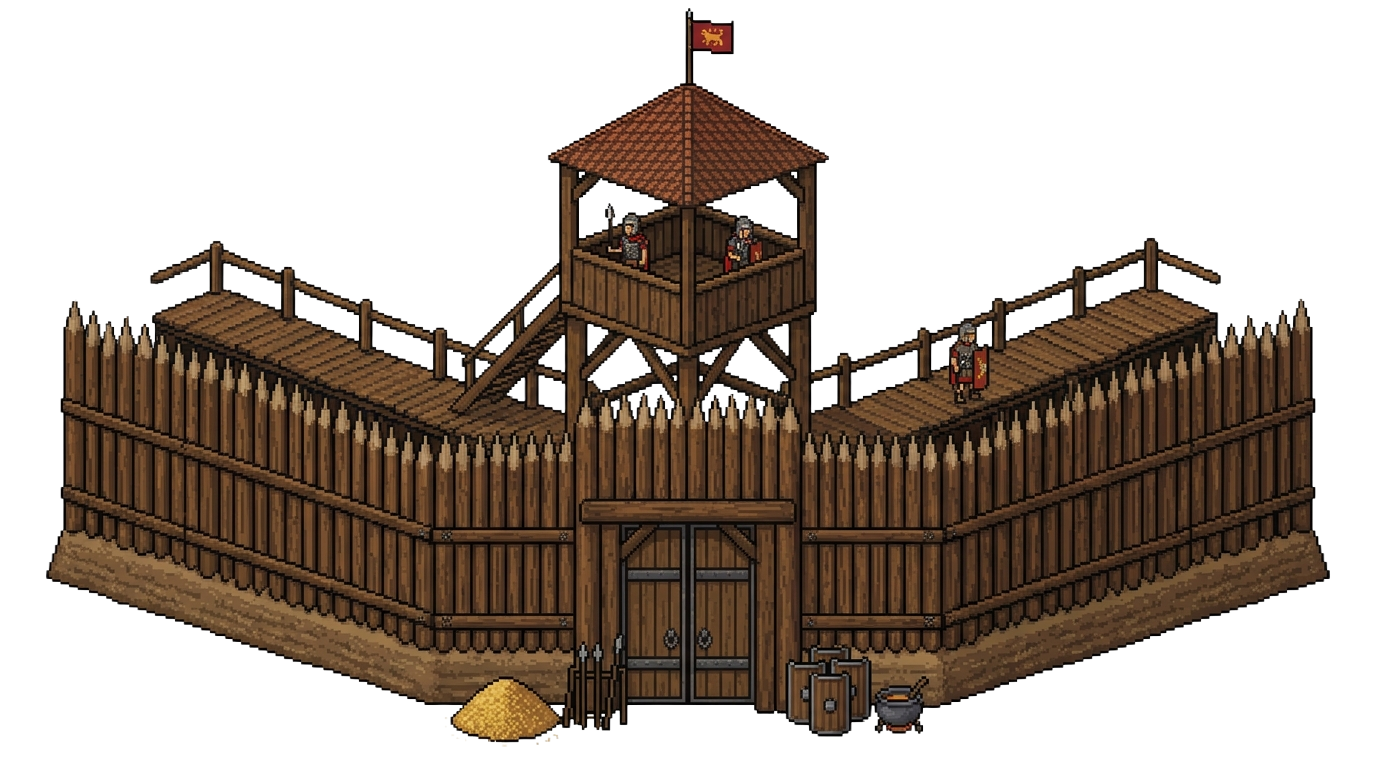
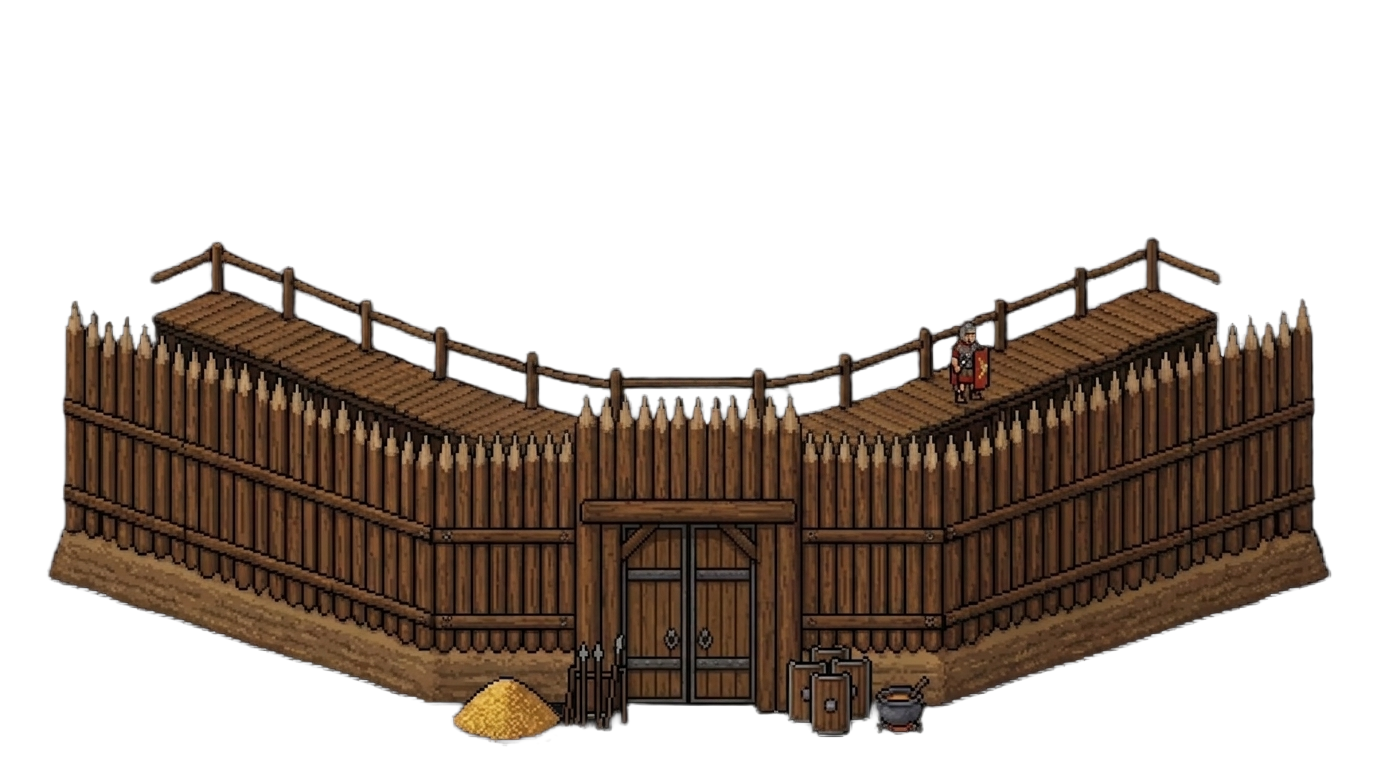
Footer-conventie, canonieke Firebase-rules en licentie
Consistente footer ("[Naam] · © Gerben de Jong · 2026") toegepast op alle
apps en portalen (©-teken toegevoegd waar het ontbrak, footer toegevoegd
waar hij helemaal ontbrak). CLAUDE.md vastgelegd met de exacte conventie én
met certamen/database.rules.json als canonieke bron voor de Firebase
Realtime Database-regels (voorheen alleen als los fragment gedocumenteerd).
Verder: LICENSE toegevoegd (alle rechten voorbehouden) en Palissade.png
opnieuw geëxporteerd (kleinere bestandsgrootte).

diff --git a/certamen/index.html b/certamen/index.html
@@ -25,30 +25,10 @@
   5. Klaar. Zonder config werkt de OEFENMODUS (met computer-spelers) gewoon,
      zodat je de spellen meteen kunt uitproberen.
 
-  Aanbevolen databaseregels (Realtime Database -> Regels):
-  {
-    “rules”: {
-      “rooms”: {
-        “$code”: { “.read”: true, “.write”: true }
-      },
-      “identities”: {
-        “.read”: “auth != null”,
-        “$klascode”: {
-          “$lid”: { “.read”: true, “.write”: true }
-        }
-      },
-      “klascodes”: {
-        “.read”: true,
-        “.write”: “auth != null”
-      },
-      “teachers”: {
-        “$uid”: { “.read”: “auth != null && auth.uid === $uid”, “.write”: “auth != null && auth.uid === $uid” }
-      }
-    }
-  }
-  (identities/$lid: iedereen mag schrijven = account aanmaken/updaten.
-   identities root lezen vereist auth = alleen docentenportaal.
-   klascodes lezen = iedereen (validatie bij registratie); schrijven = alleen auth.)
+  Databaseregels (Realtime Database -> Regels): zie certamen/database.rules.json
+  in dit repo voor de actuele, canonieke versie (incl. bescherming van het
+  admin-veld en validatie). Dat bestand moet altijd gelijk zijn aan wat er
+  live in de Firebase Console staat — zie CLAUDE.md, sectie "Firebase-rules".
   ============================================================================
 -->
 <script>

diff --git a/grieks/structura/index.html b/grieks/structura/index.html
@@ -305,7 +305,7 @@
     <p>Ontleed Griekse zinnen stap voor stap<br>via het R·U·A·M·E-systeem.</p>
   </div>
   <div class="levels-grid" id="levelsGrid"></div>
-  <footer>Grieks Ontleedcoach · Gerben de Jong · 2026</footer>
+  <footer>Grieks Ontleedcoach · © Gerben de Jong · 2026</footer>
 </div>
 
 <!-- SCREEN 2: EXERCISE -->
@@ -359,7 +359,7 @@
   <div id="levelResultList"></div>
   <button class="btn-primary gold" onclick="goToLevelSelect()">Terug naar niveaus</button>
   <button class="btn-primary" onclick="retryLevel()" style="margin-top:10px;">Opnieuw proberen</button>
-  <footer style="padding-top:24px;">Grieks Ontleedcoach · Gerben de Jong · 2026</footer>
+  <footer style="padding-top:24px;">Grieks Ontleedcoach · © Gerben de Jong · 2026</footer>
 </div>
 
 <script>

diff --git a/latijn/ludus/index.html b/latijn/ludus/index.html
@@ -914,7 +914,8 @@ RENDER.home=function(){
       <div class="note" style="font-size:12px;margin-top:2px">Speluitleg, denarii, ranglijst, woordenlijsten importeren&hellip;</div>
     </div>
     <svg viewBox="0 0 24 24" width="20" height="20" fill="none" stroke="var(--gold-dim)" stroke-width="2"><path d="M9 6l6 6-6 6"/></svg>
-  </button>`;
+  </button>
+  <div style="text-align:center;color:var(--muted);font-size:12px;margin-top:18px;letter-spacing:.1em">Ludus Latinus · © Gerben de Jong · 2026</div>`;
 };
 
 /* ---- ACHIEVEMENTS ---- */

diff --git a/frequentie/index.html b/frequentie/index.html
@@ -283,6 +283,8 @@ tbody td{padding:8px 12px;vertical-align:middle}
   </div>
 </div>
 
+<footer style="text-align:center;color:var(--muted);font-size:12px;margin:18px 0">Frequentie Woordenlijst · © Gerben de Jong · 2026</footer>
+
 <script>
 "use strict";
 // ════════ STATE ════════

diff --git a/grieks/agora/index.html b/grieks/agora/index.html
@@ -1786,7 +1786,7 @@ RENDER.home=function(){
   '<button class="panel" onclick="go(\'help\')" style="width:100%;text-align:left;display:flex;align-items:center;gap:14px;margin-top:14px;cursor:pointer">'+
   '<svg width="28" height="28" viewBox="0 0 24 24" fill="none" stroke="var(--gold)" stroke-width="2"><circle cx="12" cy="12" r="10"/><path d="M9.09 9a3 3 0 015.83 1c0 2-3 3-3 3M12 17h.01"/></svg>'+
   '<div><div style="font-size:16px;color:var(--cream)">Handleiding</div><div style="font-size:13px;color:var(--muted)">Hoe gebruik ik Agora Graeca?</div></div></button>'+
-  '<div style="text-align:center;color:var(--muted);font-size:12px;margin-top:18px;letter-spacing:.1em">Hulp bij Klassieke Talen · Gerben de Jong · 2026</div>';
+  '<div style="text-align:center;color:var(--muted);font-size:12px;margin-top:18px;letter-spacing:.1em">Hulp bij Klassieke Talen · © Gerben de Jong · 2026</div>';
 };
 
 RENDER.achievements=function(){

diff --git a/grieks/casus/index.html b/grieks/casus/index.html
@@ -808,7 +808,7 @@ RENDER.home = function(){
     Gebaseerd op de GJOU Grieks frequentielijst. Alle paradigma's zijn Attisch Grieks.
   </div>
   <div style="text-align:center;color:var(--muted);font-size:11px;margin-top:16px;letter-spacing:.08em">
-    Hulp bij Klassieke Talen · Gerben de Jong · 2026
+    Hulp bij Klassieke Talen · © Gerben de Jong · 2026
   </div>`;
 };
 

diff --git a/grieks/index.html b/grieks/index.html
@@ -126,7 +126,7 @@
     </a>
 
   </div>
-  <footer>Grieks &middot; Gerben de Jong &middot; 2026</footer>
+  <footer>Grieks &middot; &copy; Gerben de Jong &middot; 2026</footer>
 </div>
 </body>
 </html>

diff --git a/grieks/stamtijden/index.html b/grieks/stamtijden/index.html
@@ -367,7 +367,7 @@
   </div>
 </div>
 
-<footer>Stamtijden Grieks · Gerben de Jong · 2026</footer>
+<footer>Stamtijden Grieks · © Gerben de Jong · 2026</footer>
 
 <script>
 // ══════════════════════════════════════════════════════════════

diff --git a/grieks/verba/index.html b/grieks/verba/index.html
@@ -110,7 +110,7 @@
     </div>
     <div id="start-error" class="status-msg err" style="display:none;"></div>
     <button class="btn secondary small mt" onclick="openDocentLock()" style="margin-top:20px;">⚙ Docentenpaneel</button>
-    <footer>Vocabularium Grieks · Gerben de Jong · 2026</footer>
+    <footer>Vocabularium Grieks · © Gerben de Jong · 2026</footer>
   </div>
 </div>
 

diff --git a/grieks/werkwoorden/index.html b/grieks/werkwoorden/index.html
@@ -1107,7 +1107,7 @@ footer{text-align:center;padding:10px;font-size:.73rem;color:var(--dim);
   <div id="results-content" class="results-wrap"></div>
 </div>
 
-<footer>Griekse Werkwoorden · Gerben de Jong · 2026</footer>
+<footer>Griekse Werkwoorden · © Gerben de Jong · 2026</footer>
 
 <script>
 // ══════════════════════════════════════════════════════

diff --git a/index.html b/index.html
@@ -132,7 +132,7 @@
 
   </div>
 
-  <footer>Klassieke Talen &middot; Gerben de Jong &middot; 2026</footer>
+  <footer>Klassieke Talen &middot; &copy; Gerben de Jong &middot; 2026</footer>
 </div>
 </body>
 </html>

diff --git a/kcv/index.html b/kcv/index.html
@@ -138,7 +138,7 @@
 
   </div>
 
-  <footer>KCV &middot; Gerben de Jong &middot; 2026</footer>
+  <footer>KCV &middot; &copy; Gerben de Jong &middot; 2026</footer>
 </div>
 </body>
 </html>